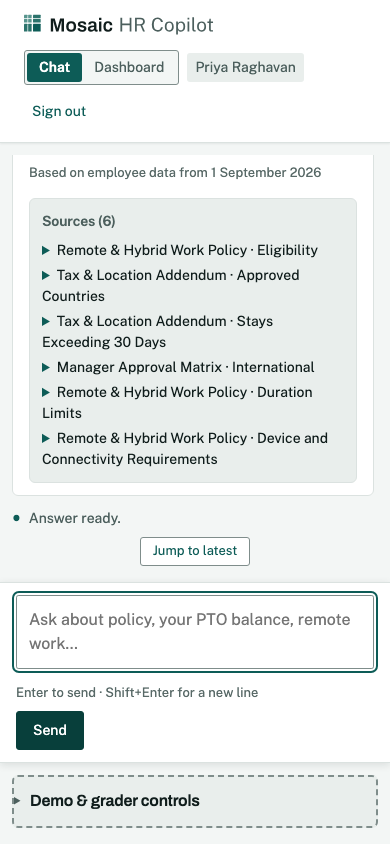
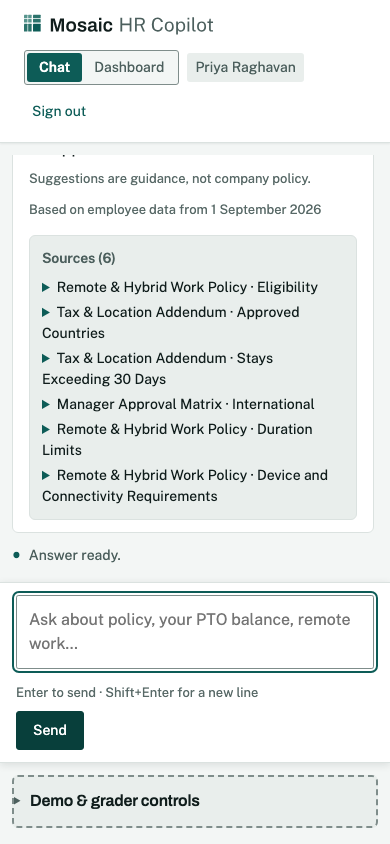
UX-W3(chat): fix: the panel ships collapsed, and the evidence is the build it claims to be
Review round 1, both findings:
- The panel is a <details> that ships collapsed at EVERY viewport, not just below 40rem, and
  the collapse is now the element's own — fitDemoPanel() and its matchMedia block are deleted,
  so it needs no JavaScript. Expanded above 40rem it regressed the at-rest chat screen the
  plan's §3.1 wireframe specifies: 1 of 4 starters in view at 1440x900, and at 1280x800 it hit
  its 45vh cap (390px of content in a 356px box), scrolled inside itself and left the
  transcript 174px with no starter in it. At rest now: 4 of 4 starters at all three viewports.
- app.css: the cap is 45vh narrow, 60vh from 48rem up, where two columns bring the content to
  390px — so the OPENED panel fits at 800px of viewport height with nothing hidden.
- tests/ux: test_p8_the_panel_is_collapsed_on_a_phone... becomes ...ships_collapsed..., over
  all three audit viewports. At rest it asserts closed, scrollHeight <= clientHeight, all four
  starters wholly inside the transcript's visible box, no sideways scroll and the composer on
  screen; then it opens the panel by its <summary> and asserts the open panel fits at 1440x900
  and 1280x800 and never buries the composer. W2's phone transcript budget is kept.
- scripts/ux_capture.py: PROBE_JS records a box that scrolls vertically inside itself
  (overflow-y: auto|scroll) under vertical_scrollable, not only overflow-y: hidden — the gap
  that let the capped panel pass the harness. expand_all() no longer opens the demo panel
[…]

Changed region(s): [[0.0308, 0.1848, 0.8308, 0.6161], [0.0308, 0.6469, 0.3077, 0.6777], [0.4, 0.6469, 0.6154, 0.6777]]

diff --git a/src/hrmosaic/web/templates/_demo_controls.html b/src/hrmosaic/web/templates/_demo_controls.html
@@ -14,11 +14,17 @@
   `tests/contract/test_demo_controls_are_quarantined.py` is **P8**: `#actor-select`, `.demo-button`
   and any `/dashboard/…#turn-` link exist inside `section.demo-panel` and inside nothing else.
 
-  **Why a `<details>`, and why two columns.** `body.chat` has a definite height (P11: the transcript
-  scrolls, the document does not grow), so this panel and the composer take their room out of the
-  transcript's. The groups flow into two balanced columns on a wide screen, and the page script
-  collapses the whole thing below 40rem and opens it above. The markup ships `open`, so a reader
-  with no JavaScript keeps exactly what W2 shipped.
+  **Why a collapsed `<details>`, and why two columns.** `body.chat` has a definite height (P11: the
+  transcript scrolls, the document does not grow), so this panel and the composer take their room
+  out of the transcript's. Expanded it needs ~390px, which is more than the whole empty state
+  (~388px) — so at 1280x800, one of the three viewports the harness measures, an expanded panel
+  left the transcript 174px, hid three of the four starter questions and clipped itself against its
+  own `max-height` (UX W3 review, finding 2). It therefore ships **collapsed at every viewport**:
+  the at-rest chat screen is the conversation the plan's §3.1 wireframe specifies plus a one-line
+  disclosure, and a grader opens the panel with one click. The collapse is the `<details>` element's
+  own, so it needs no JavaScript and survives a reader who has none. Expanded, the groups flow into
+  two balanced columns on a wide screen, which is what keeps the open panel inside 800px of viewport
+  height without scrolling inside itself.
 
   **No nested `<section>`.** The P2/P13 denylists cut this panel out of the rendered page with
   `<section class="demo-panel">.*?</section>` before judging the product's own words — a grader
@@ -28,7 +34,7 @@
   Context: `employees`, `actor`, `demo_prompts`, `demo_environment`, `transcript`, `gate_on`.
 #}
 <section class="demo-panel">
-  <details id="demo-details" open>
+  <details id="demo-details">
     <summary class="demo-summary"><h2>Demo &amp; grader controls</h2></summary>
 
     <p class="demo-note">These controls exist for evaluation. A real user of this assistant never

diff --git a/src/hrmosaic/web/static/app.css b/src/hrmosaic/web/static/app.css
@@ -101,6 +101,13 @@ a { color: var(--accent); }
   flex: none;
   width: 100%; max-width: var(--measure); margin: 0 auto; padding: var(--space-3) var(--space-4);
   border: 2px dashed var(--line-strong); border-radius: var(--radius); background: var(--sunk);
+  /* The panel ships collapsed (`_demo_controls.html`), so at rest this is a ~49px disclosure row and
+     the transcript keeps the whole empty state. The cap is the safety valve for the *opened* panel:
+     `body.chat` has a definite height, so without one an open panel would push the composer off a
+     short viewport. Narrow, the groups are one column (~642px) and nothing can make that fit in
+     844px beside a conversation, so the panel scrolls inside itself and the transcript keeps a
+     sliver. Wide, it is two columns (~390px) and 60vh lets the whole thing open without scrolling
+     at 800px of viewport height — see the `min-width: 48rem` block. */
   max-height: 45vh; overflow-y: auto;
 }
 .demo-panel h2 { margin: 0; font: var(--text-h3); display: inline; }
@@ -110,10 +117,15 @@ a { color: var(--accent); }
 .demo-actions { display: flex; flex-direction: column; gap: var(--space-2); margin-top: var(--space-2); }
 .demo-group { margin-top: var(--space-4); }
 /* Two balanced columns once there is width for them. Expanded, this panel spends the transcript's
-   height budget, and the conversation is what the page is for (P11). */
+   height budget, and the conversation is what the page is for (P11) — which is why it ships
+   collapsed. Two columns are what make the opened panel 390px instead of 642px, and 390px is what
+   fits inside 60vh at the shortest viewport the harness measures (1280x800). The old 45vh cap was
+   360px there: the panel scrolled inside itself, and an `overflow-y: auto` box hides its own last
+   rows with no affordance a grader would notice (UX W3 review, finding 2). */
 @media (min-width: 48rem) {
   .demo-body { columns: 2; column-gap: var(--space-5); }
   .demo-body > * { break-inside: avoid; margin: 0 0 var(--space-4); }
+  .demo-panel { max-height: 60vh; }
 }
 .demo-group h3 { margin: 0 0 var(--space-2); font: var(--text-small); color: var(--ink-soft); }
 .demo-hint { margin: var(--space-2) 0 0; font: var(--text-meta); color: var(--ink-soft); }

diff --git a/src/hrmosaic/web/templates/chat.html b/src/hrmosaic/web/templates/chat.html
@@ -356,15 +356,12 @@
       demoNoTurn.hidden = true;
     }
 
-    // The panel is load-bearing for layout: `body.chat` has a definite height, so an expanded
-    // panel takes its room out of the transcript (UX W2 report §7.1). On a phone it starts
-    // collapsed; the markup ships `open`, so a page with no JavaScript keeps what W2 shipped.
-    var demoDetails = document.getElementById("demo-details");
-    var narrow = window.matchMedia("(max-width: 40rem)");
-
-    function fitDemoPanel(query) { demoDetails.open = !query.matches; }
-    fitDemoPanel(narrow);
-    narrow.addEventListener("change", fitDemoPanel);
+    // The panel is load-bearing for layout: `body.chat` has a definite height, so an expanded panel
+    // takes its room out of the transcript (UX W2 report §7.1). It therefore ships collapsed at
+    // every viewport and the reader opens it — which is the `<details>` element's own behaviour, so
+    // there is no script here at all any more. A media query used to force it open above 40rem;
+    // that regressed the at-rest chat screen on every desktop viewport (UX W3 review, finding 2)
+    // and made the collapse depend on JavaScript for no gain.
 
     document.body.addEventListener("htmx:afterSwap", function (event) {
       var turns = document.querySelectorAll("#messages .turn");

diff --git a/tests/ux/test_principles.py b/tests/ux/test_principles.py
@@ -15,8 +15,8 @@ defects were found:
 * **P12** (UX W2) keyboard and screen-reader parity — Enter sends, focus returns, one live region,
   one plain-language announcement per turn, distinct names on every disclosure, type in `rem`;
 * **P2 / P13** (UX W2) nothing technical survives onto the painted page;
-* **P8** (UX W3) the demo controls are quarantined and labelled — one panel, and the conversation
-  keeps its room on a phone.
+* **P8** (UX W3) the demo controls are quarantined and labelled — one panel, collapsed at every
+  viewport, so the conversation keeps its room.
 
 Every test is marked `ux` and deselected from `pytest -q` (see `pyproject.toml`); CI runs them in a
 job of its own that installs chromium.
@@ -319,34 +319,97 @@ def test_p8_every_demo_control_the_browser_paints_is_inside_the_panel(fresh_page
     assert re.fullmatch(expected, produced), produced
 
 
-def test_p8_the_panel_is_collapsed_on_a_phone_so_the_conversation_keeps_its_room(browser, ux_server):
-    """W2's review: `body.chat` has a definite height, so the panel spends the transcript's budget."""
+#: Everything the at-rest panel spends of the transcript's budget, measured in the browser. The
+#: starter questions are the plan's §3.1 wireframe: a starter counts only while its whole box is
+#: inside the transcript's *visible* box, because a starter the reader has to scroll to find is a
+#: starter the wireframe does not have.
+PANEL_BUDGET_JS = r"""
+() => {
+  const panel = document.querySelector("section.demo-panel");
+  const details = document.getElementById("demo-details");
+  const transcript = document.getElementById("transcript");
+  const box = transcript.getBoundingClientRect();
+  const starters = Array.from(document.querySelectorAll(".starter"));
+  return {
+    open: details.open,
+    heading: panel.querySelector("h2").textContent,
+    panel: panel.getBoundingClientRect().height,
+    panel_scroll: panel.scrollHeight,
+    panel_client: panel.clientHeight,
+    transcript: box.height,
+    starters: starters.length,
+    starters_in_view: starters.filter((el) => {
+      const s = el.getBoundingClientRect();
+      return s.top >= box.top - 1 && s.bottom <= box.bottom + 1;
+    }).length,
+    send: document.getElementById("send-button").getBoundingClientRect().toJSON(),
+  };
+}
+"""
+
+
+def test_p8_the_panel_ships_collapsed_so_the_conversation_keeps_its_room(browser, ux_server):
+    """W2's review: `body.chat` has a definite height, so the panel spends the transcript's budget.
+
+    W3 first shipped the panel expanded above 40rem, and that regressed the at-rest chat screen on
+    every desktop viewport: at 1440x900 one of the four starter questions was wholly in view, and at
+    1280x800 — one of the three viewports the harness measures — the panel hit its own `max-height`,
+    scrolled inside itself, and left the transcript 174px with no starter in it at all. Hence this
+    test at all three viewports rather than the phone alone, and hence the second half: an opened
+    panel must show all of itself, because an `overflow-y: auto` box hides its last rows silently.
+    """
     measurements = {}
-    for label, width, height in (("desktop", 1440, 900), ("phone", 390, 844)):
+    for label, width, height in (("desktop", 1440, 900), ("laptop", 1280, 800), ("phone", 390, 844)):
         context = browser.new_context(viewport={"width": width, "height": height})
         tab = context.new_page()
         try:
             tab.goto(f"{ux_server}/?access={TOKEN}", wait_until="networkidle")
             tab.wait_for_timeout(250)
-            measurements[label] = {
-                "open": tab.eval_on_selector("#demo-details", "e => e.open"),
-                "panel": tab.eval_on_selector("section.demo-panel", "e => e.getBoundingClientRect().height"),
-                "transcript": tab.eval_on_selector("#transcript", "e => e.getBoundingClientRect().height"),
-                "sideways": _document_scrolls_sideways(tab),
-                "heading": tab.eval_on_selector("section.demo-panel h2", "e => e.textContent"),
-            }
+            at_rest = tab.evaluate(PANEL_BUDGET_JS)
+            at_rest["sideways"] = _document_scrolls_sideways(tab)
+            tab.click(".demo-summary")
+            tab.wait_for_timeout(250)
+            opened = tab.evaluate(PANEL_BUDGET_JS)
+            opened["sideways"] = _document_scrolls_sideways(tab)
+            measurements[label] = {"at_rest": at_rest, "opened": opened, "viewport": (width, height)}
         finally:
             context.close()
 
-    phone, desktop = measurements["phone"], measurements["desktop"]
-    assert desktop["open"] is True, "there is room for it on a desktop, so it is open"
-    assert phone["open"] is False, "and it is collapsed on a phone"
-    assert "Demo" in phone["heading"], "with the same heading, which is the summary"
-    assert phone["panel"] < desktop["panel"], f"the collapsed panel is not smaller: {measurements}"
-    # Measured 434 of 844 at the head of W3, against a 53px collapsed panel. The floor is 45% of
-    # the viewport rather than the measurement itself: this guards the budget, not the pixel.
-    assert phone["transcript"] > 844 * 0.45, f"the conversation keeps its room: {measurements}"
-    assert not phone["sideways"] and not desktop["sideways"]
+    for label, measured in measurements.items():
+        at_rest, (width, height) = measured["at_rest"], measured["viewport"]
+        assert at_rest["open"] is False, f"the panel is open at rest at {label}: {measured}"
+        assert "Demo" in at_rest["heading"], f"the collapsed panel says what it is at {label}"
+        assert at_rest["panel_scroll"] <= at_rest["panel_client"] + 1, (
+            f"the panel at rest hides part of itself at {label}: {at_rest}"
+        )
+        assert at_rest["starters"] == 4, "the plan's §3.1 wireframe is four starter questions"
+        assert at_rest["starters_in_view"] == 4, (
+            f"the panel pushed {4 - at_rest['starters_in_view']} starter(s) out of the transcript at {label}: {at_rest}"
+        )
+        assert not at_rest["sideways"], f"the document scrolls sideways at {label}"
+        assert at_rest["send"]["bottom"] <= height + 1, f"the composer is off screen at {label}: {at_rest}"
+
+    # The phone budget W2's review asked for, kept as a budget rather than a pixel: measured 434 of
+    # 844 against a 53px collapsed panel.
+    assert measurements["phone"]["at_rest"]["transcript"] > 844 * 0.45, f"the phone loses its room: {measurements}"
+
+    # Opened, the panel is the grader's, and it must show all of itself where it can. Two columns
+    # bring the content to ~390px, which fits inside 60vh at 800px of viewport height; a phone is
+    # single-column (~642px) and nothing that size fits beside a conversation, so there it scrolls
+    # inside its own box and keeps the transcript a sliver.
+    for label in ("desktop", "laptop"):
+        opened = measurements[label]["opened"]
+        assert opened["open"] is True, f"the summary did not open the panel at {label}"
+        assert opened["panel_scroll"] <= opened["panel_client"] + 1, (
+            f"the opened panel scrolls inside itself at {label}: {opened}"
+        )
+    phone_open = measurements["phone"]["opened"]
+    assert phone_open["transcript"] > 0, f"the conversation vanished behind the open panel: {phone_open}"
+    for label, measured in measurements.items():
+        opened = measured["opened"]
+        height = measured["viewport"][1]
+        assert opened["send"]["bottom"] <= height + 1, f"the opened panel pushed the composer off {label}: {opened}"
+        assert not opened["sideways"], f"the opened panel scrolls the document sideways at {label}"
 
 
 def test_p8_a_demo_prompt_fills_the_composer_and_sends_nothing(page, ux_server):
@@ -355,6 +418,7 @@ def test_p8_a_demo_prompt_fills_the_composer_and_sends_nothing(page, ux_server):
     page.goto(f"{ux_server}/", wait_until="networkidle")
     before = page.eval_on_selector_all("#messages .turn", "els => els.length")
 
+    page.click(".demo-summary")  # the panel ships collapsed at every viewport
     page.click(".demo-button")
     page.wait_for_timeout(400)
 

diff --git a/scripts/ux_capture.py b/scripts/ux_capture.py
@@ -111,13 +111,21 @@ PROBE_JS = r"""
     const sw = el.scrollWidth, cw = el.clientWidth, sh = el.scrollHeight, ch = el.clientHeight;
     const wide = cw > 0 && sw > cw + 1;
     const ellipsis = cs.textOverflow === "ellipsis" && sw > cw + 1;
-    const clippedY = ch > 0 && sh > ch + 1 && cs.overflowY === "hidden";
-    if (wide || ellipsis || clippedY) {
+    const tallerThanItsBox = ch > 0 && sh > ch + 1;
+    const clippedY = tallerThanItsBox && cs.overflowY === "hidden";
+    // A box that scrolls *vertically* inside itself was invisible here until UX W3's review: only
+    // `overflow-y: hidden` was recorded, so the demo panel could cap itself at 45vh, hide its own
+    // last rows behind an overlay scrollbar nobody sees until they scroll, and pass the harness.
+    // P7 permits a scroll container — "with a visible affordance" — so this is reported, not failed:
+    // the transcript and the wide-table wrappers are legitimately in this list on most screens.
+    const scrollsY = tallerThanItsBox && (cs.overflowY === "auto" || cs.overflowY === "scroll");
+    if (wide || ellipsis || clippedY || scrollsY) {
       overflow.push({
         path: pathOf(el), tag: el.tagName.toLowerCase(),
         scrollWidth: sw, clientWidth: cw, scrollHeight: sh, clientHeight: ch,
         overflowX: cs.overflowX, overflowY: cs.overflowY, textOverflow: cs.textOverflow,
         horizontal_overflow: wide, ellipsis_clipped: ellipsis, vertical_clipped: clippedY,
+        vertical_scrollable: scrollsY,
         text: (el.innerText || el.textContent || "").trim().replace(/\s+/g, " ").slice(0, 180),
       });
     }
@@ -346,8 +354,30 @@ TURN_FACTS_JS = "e => ({session: e.dataset.sessionId, turn: e.dataset.turnId, ou
 
 
 def expand_all(page: Any) -> None:
-    page.eval_on_selector_all("details", "els => els.forEach(d => { d.open = true; })")
+    """Every disclosure on the *turn*, open — and not the demo panel.
+
+    The panel is a `<details>` too, so a blanket `details { open = true }` used to open it and leave
+    it open for every screen captured after it on the same page. That is how a chat screen ends up
+    photographed with chrome it does not ship (UX W3 review, finding 1: an after-screen has to be
+    the build it claims to be). Screens that want the panel open ask for it by name.
+    """
+    others = "els => els.forEach(d => { if (d.id !== 'demo-details') { d.open = true; } })"
+    page.eval_on_selector_all("details", others)
     page.wait_for_timeout(200)
+
+
+def set_demo_panel(page: Any, *, open_: bool) -> None:
+    """The panel ships collapsed at every viewport (UX W3 review, finding 2), so a screen that is
+    *of* the panel has to open it first — a 49px strip is not evidence of what the panel holds."""
+    page.evaluate(
+        "wanted => { const d = document.getElementById('demo-details'); if (d) { d.open = wanted; } }",
+        open_,
+    )
+    page.wait_for_timeout(200)
+
+
+def open_demo_panel(page: Any) -> None:
+    set_demo_panel(page, open_=True)
 
 
 def sign_in(context: Any, base_url: str, actor: str) -> Any:
@@ -452,10 +482,13 @@ def capture(out: Path, urls: dict[str, str]) -> Capture:
             page,
             "demo-panel",
             route="/",
-            state="persona E1042",
-            notes="NEW at W1: the persona control, out of the masthead and labelled.",
+            state="persona E1042, panel opened",
+            notes="NEW at W1, rebuilt at W3: every demo affordance, in one labelled panel. It ships "
+            "collapsed, so this screen opens it.",
             selector="section.demo-panel",
+            before=open_demo_panel,
         )
+        set_demo_panel(page, open_=False)
 
         ask(page, urls["demo_1"], PROMPTS["demo_1"], delay_ms=6000)
         shot.screen(
@@ -480,6 +513,17 @@ def capture(out: Path, urls: dict[str, str]) -> Capture:
             notes="One finished turn.",
             selector="#messages .turn",
         )
+        shot.screen(
+            page,
+            "demo-panel-after-answer",
+            route="/",
+            state="one answered turn, panel opened",
+            notes="NEW at W3: the grader's summary of the last turn and the deep link into its "
+            "record, both written by the page after the turn landed.",
+            selector="section.demo-panel",
+            before=open_demo_panel,
+        )
+        set_demo_panel(page, open_=False)
         shot.screen(
             page,
             "chat-answer-expanded",
